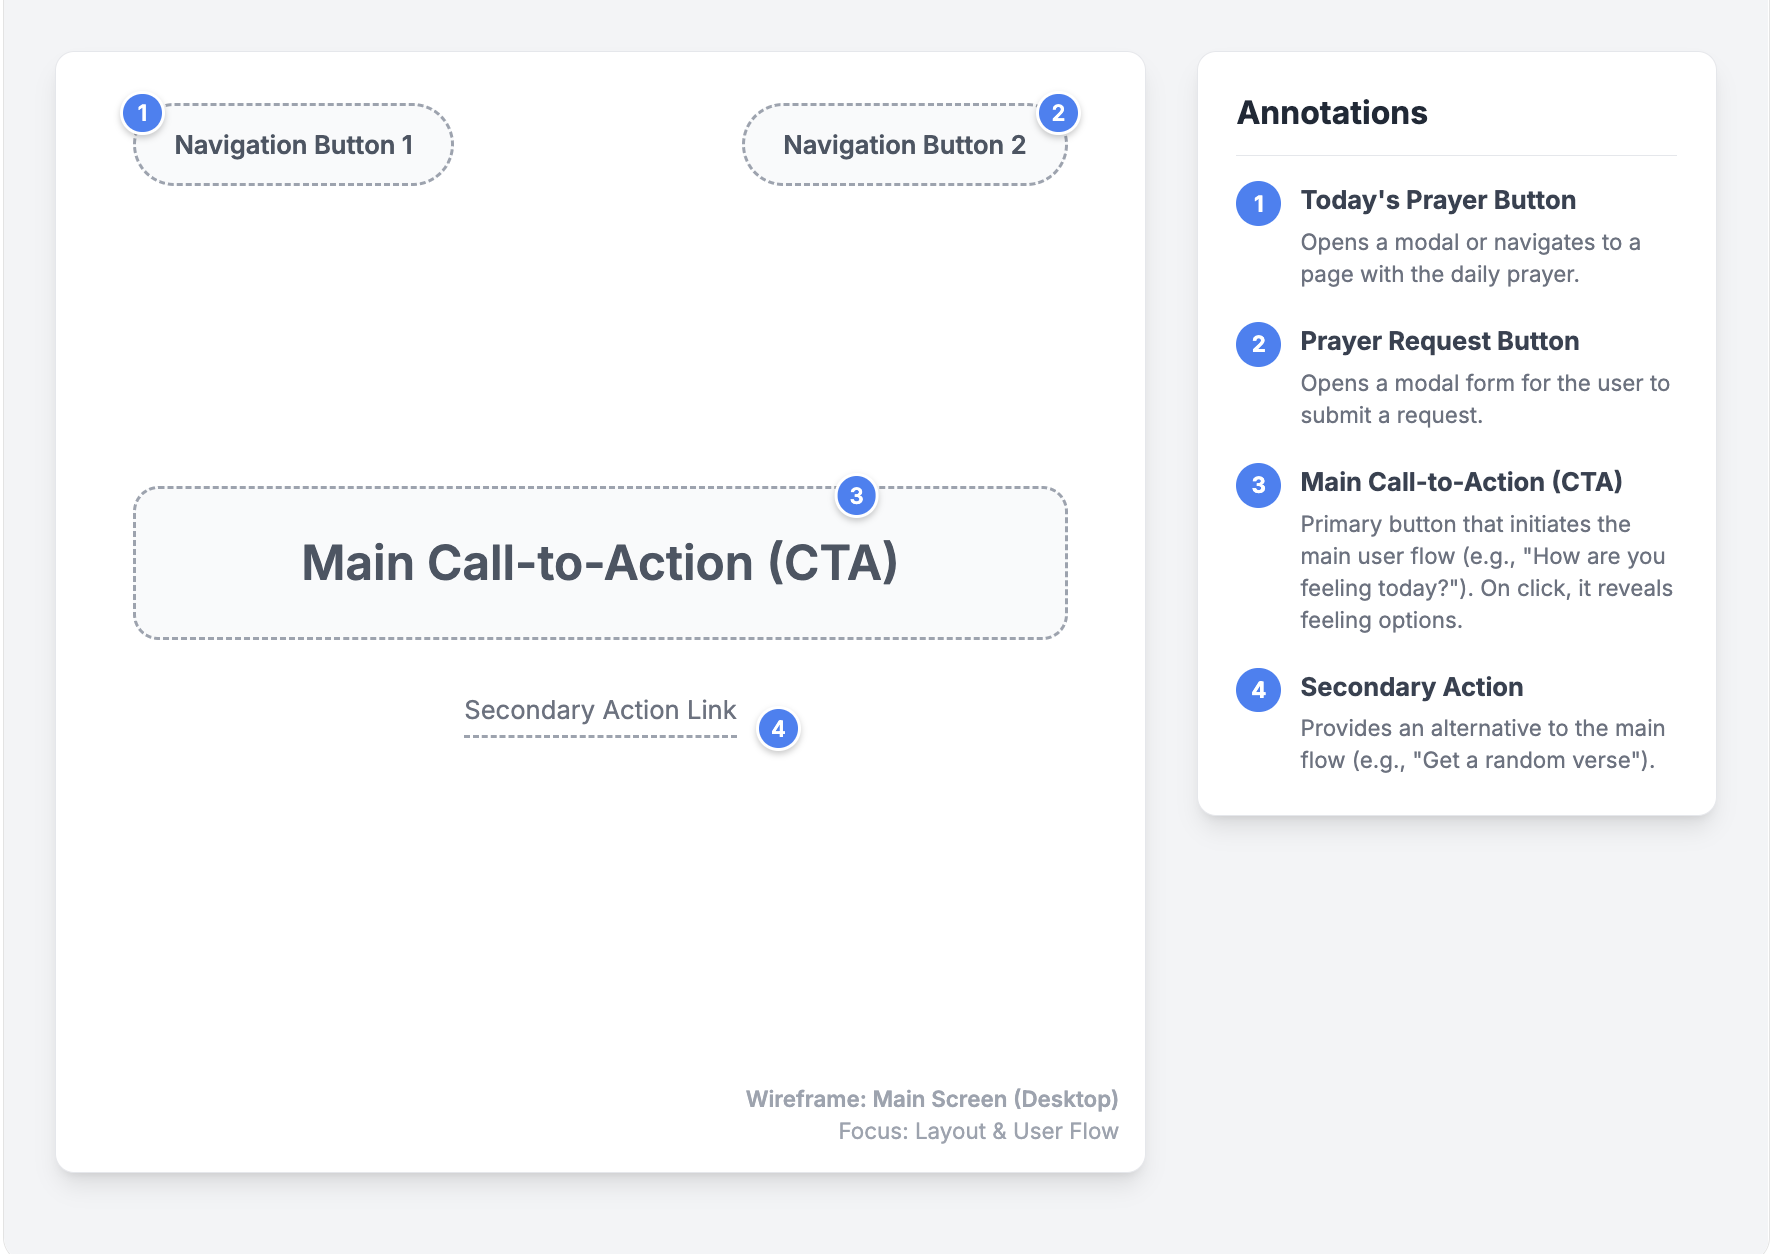
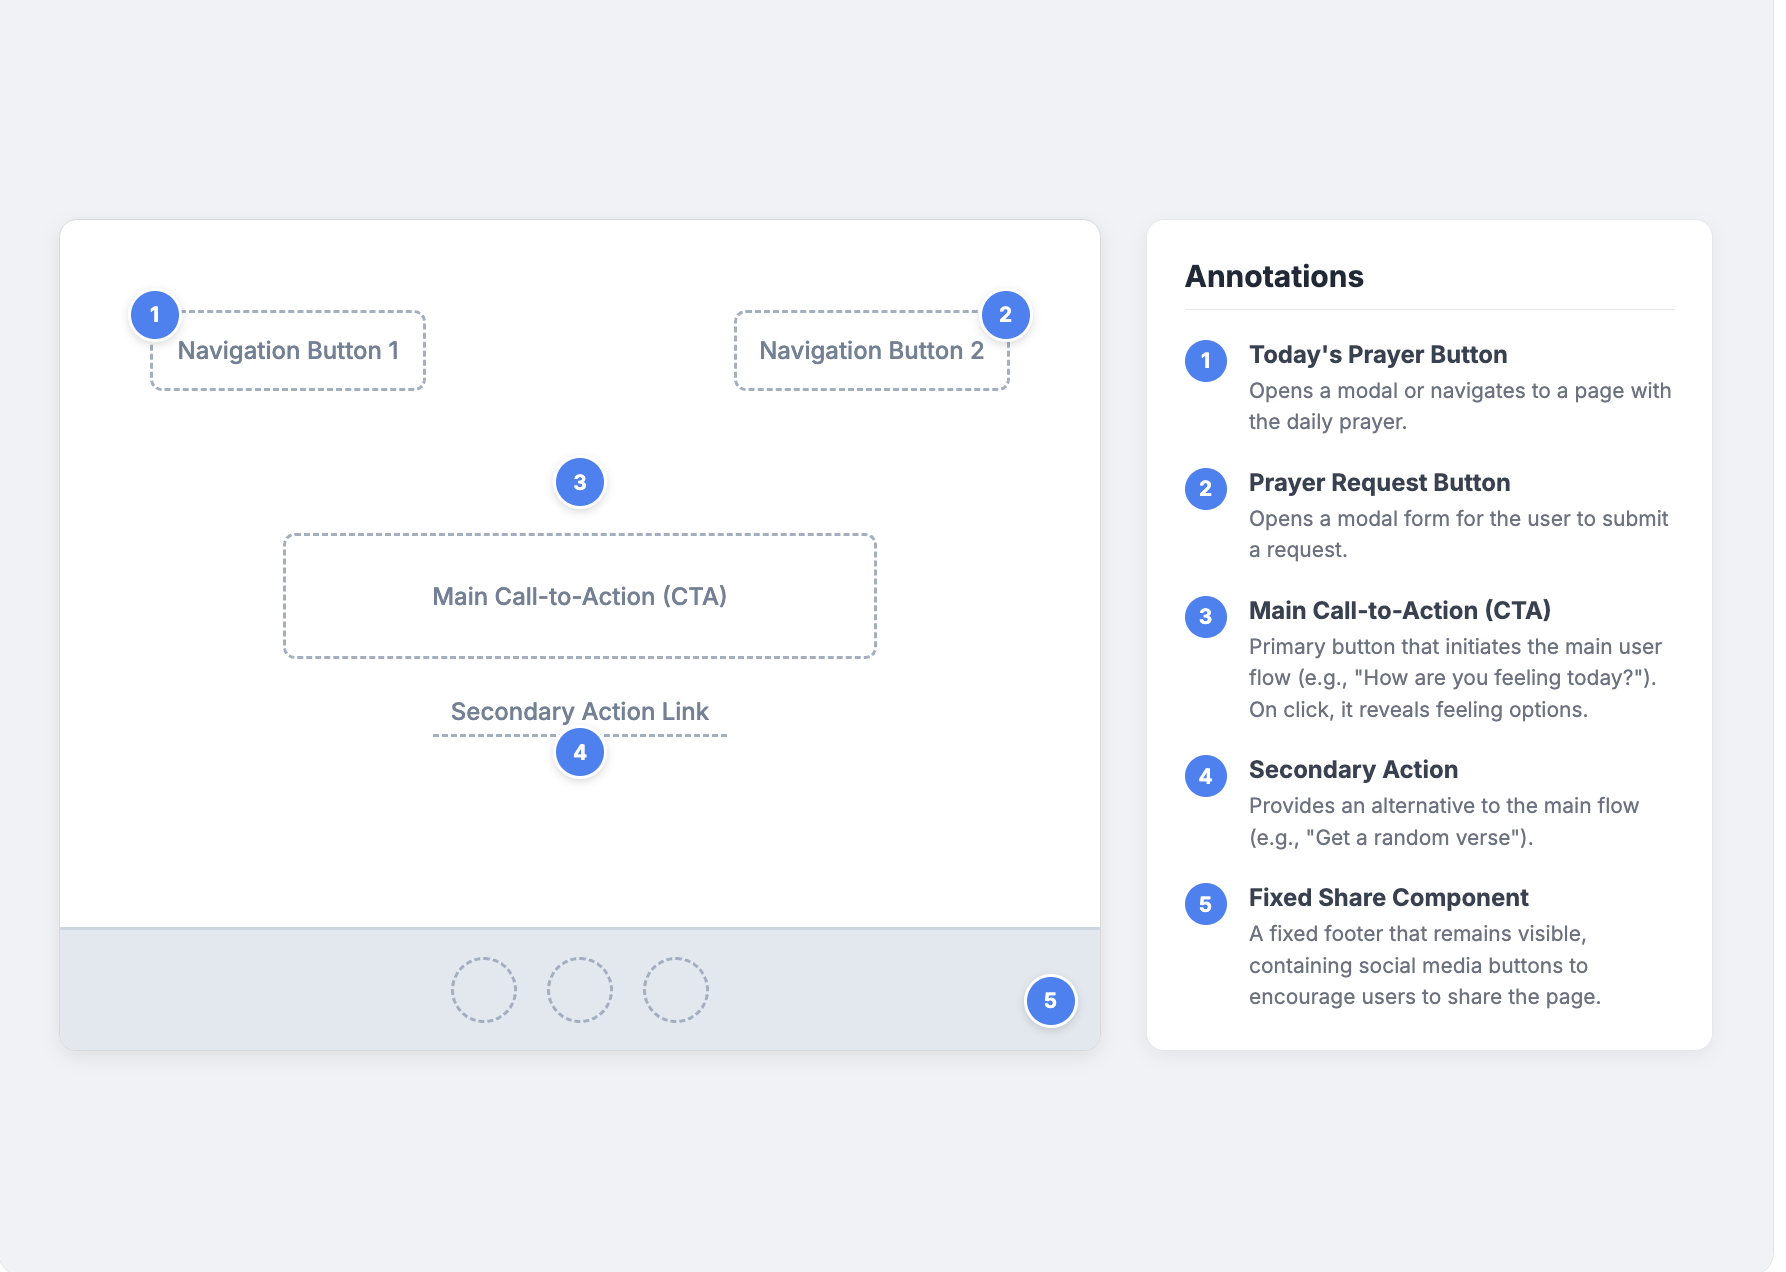
feat: Implement responsive share footer- Adds the HTML structure for a new fixed footer component. - Implements CSS styles for the share buttons (Facebook, X, WhatsApp). - Adds media queries to ensure the footer is only visible on mobile   and smaller screen sizes, being hidden on desktop for a clea

diff --git a/index.html b/index.html
@@ -2,23 +2,27 @@
 <html lang="en">
 <head>
     <meta charset="UTF-8">
-    <meta name="viewport" content="width=device-width, initial-scale=1.0, maximum-scale=1.0, user-scalable=no">
+    <meta name="viewport" content="width=device-width, initial-scale=1.0">
     <title>Peace in the Word</title>
     <!-- CSS -->
     <link rel="stylesheet" href="style.css">
     <link rel="stylesheet" href="https://cdnjs.cloudflare.com/ajax/libs/font-awesome/6.5.1/css/all.min.css">
 </head>
 <body>
-    <!-- HEADER -->
-    <header class="header"> 
+
+      <header class="mobile-header">
+        <button id="daily-prayer-btn" aria-label="Open daily prayer">Today's Prayer 🙏</button>
+        <button id="prayer-btn" aria-label="Open prayer request form">Prayer Request 🙏</button>
+  
         <!-- DAILY PRAYER BUTTON - DESKTOP ONLY -->
         <button onclick="DailyPrayerPopup()" id="daily-prayer-btn" aria-label="Open daily prayer">
             Today's Prayer 🕊
         </button>
         <!-- REQUEST A PRAYER BUTTON -->
-        <button onclick="Popup()" role="button" id="prayer-btn" aria-label="Open prayer request form">
+        <button onclick="Popup()" id="prayer-btn" aria-label="Open prayer request form">
             Prayer Request 🙏
         </button>
+        </header>
 
         <!-- DAILY PRAYER POPUP -->
         <div id="daily-prayer-popup">

diff --git a/style.css b/style.css
@@ -356,6 +356,10 @@ main, .main-container {
   color: white;
 }
 
+
+.mobile-header {
+  display: none;
+}
 /* =========================
   RESPONSIVE DESIGN
 ========================= */
@@ -468,6 +472,34 @@ main, .main-container {
       position: fixed;
       padding: 30px;
     }
+
+     .mobile-header {
+    display: flex; 
+    justify-content: space-between; 
+    align-items: center; 
+    position: fixed;
+    top: 0;
+    left: 0;
+    width: 100%;
+    height: 100px; 
+    padding: 0 15px;
+    background: rgba(173, 216, 230, 0.9);
+    box-shadow: 0 2px 10px rgba(0,0,0,0.1);
+    z-index: 500;
+     }
+    
+
+  #daily-prayer-btn, #prayer-btn {
+    width: 110px; /* 130px * 0.85 */
+    height: 65px; /* 70px * 0.85 */
+    font-size: 1em; /* 1.1em * 0.85 */
+    box-shadow: white 0px 0px 50;
+  }
+  
+#feeling-btn {
+    margin-top: 150px; 
+}  /* Space for mobile header */
+
 
     .share-buttons button {
       width: 45px;

diff --git a/README.md b/README.md
@@ -9,11 +9,16 @@ My goal is to offer a peaceful space where anyone, at any time, can find a word 
 ---
 
 ## Technologies Used
-- HTML5
-- CSS3
-- JavaScript
-- Git & GitHub
-- VS Code
+
+HTML5: For the core structure and content of the application.
+
+CSS3: For all styling, including the responsive layout, animations, and the dual-palette design strategy.
+
+JavaScript (ES6): For all interactivity, including the logic for displaying verses, managing pop-ups, and handling user events.
+
+Git & GitHub: For version control and hosting the deployed project via GitHub Pages.
+
+VS Code: As the primary code editor for development.
 
 ---
 
@@ -39,28 +44,27 @@ My goal is to offer a peaceful space where anyone, at any time, can find a word 
 
 ## UX Design
 
-### The Psychology of Colors in the Project
+#### The Psychology of Colors: An Ethereal Experience
 
-Our visual identity is built on a dual-palette strategy to create an experience that is both spiritually warm and functionally clear. We combine an atmospheric background with a clean, focused user interface.
+The visual identity of the project is designed to create an experience that is both spiritually uplifting and functionally clear. The strategy combines a celestial, calming atmosphere with a warm, human core at its center.
 
-![Color Palette](assets/images/documentation/screenshots/colorpalette/colorspalette.png)
+#### The Celestial Atmosphere (The Calming Blue)
 
-**1. The Atmospheric Palette (The Heart of the Site)**
+The entire user experience is enveloped in a soft, light blue. This is not just an accent color, but the primary atmospheric element of the site.
 
-The user is welcomed by a background image rich in soft, warm, and earthy tones—the gentle whites of a dove and the natural beiges of open hands. This visual foundation sets the emotional tone of the site:
+The Ethereal Frame: A gentle blue vignette on the edges of the screen and a solid blue footer create a soothing visual boundary. This "celestial frame" removes outside distractions and immerses the user in a space of peace and serenity.
 
-* **Warmth and Humanity:** The beige and organic tones create a welcoming, human, and comforting atmosphere.
-* **Spirituality and Peace:** The imagery of the dove and the cross evokes a sense of peace, hope, and the presence of the Holy Spirit.
+The Unifying Element: This same lightblue is used for all interactive elements (buttons, links, pop-ups), creating a seamless and harmonious connection between the atmosphere and the user interface.
 
-**2. The User Interface Palette (The Clarity of the Message)** 
+#### The Human Core (The Heart of the Site)
 
-Floating above this warm atmosphere is a clean, minimalist UI palette designed for focus and readability.
+Resting at the heart of this blue atmosphere is the background image, rich in soft, warm, and earthy tones.
 
-* **Dark Tones (`#222` and `#333`):** Represent the **solidity and timelessness** of the message. They provide maximum contrast for comfortable, distraction-free reading, conveying authority and trust.
-* **Light Blue (`lightblue`):** Our touch of **serenity and clarity**. This cool color complements the warm background, evoking a sense of calm and confidence. It is used strategically to guide the user's actions peacefully.
-* **Background (`#f8feff`):** The foundation for all content is a white with a subtle bluish tint, creating a **clean and open space**. It acts as a canvas that elevates the Word, symbolizing the mental clarity needed for reflection.
+Warmth and Humanity: The natural beiges of the open hands and the gentle whites of the dove provide a focal point of warmth, comfort, and human connection.
 
-This combination ensures that the user feels welcomed and at peace (from the background) while being able to interact with the message clearly and without effort (from the UI).
+Clarity and Readability: Floating above this, the dark tones (#222 and #333) are used for all text, ensuring the message is always solid, timeless, and easy to read.
+
+This combination ensures that the user feels enveloped in a peaceful, heavenly calm (from the blue atmosphere) while connecting with a message of hope and humanity at its core.
 
 ### Typography: A Balance of Personality and Clarity
 
@@ -165,7 +169,7 @@ Key adaptations for the mobile layout include:
 
 3. Vertical Hierarchy: All elements are arranged in a clear vertical hierarchy, guiding the user's eye downwards from the navigation options to the primary and secondary actions, ensuring a seamless experience.
 
-4 .Persistent Share Footer: The fixed footer with the share buttons for Facebook, X (Twitter), and WhatsApp remains visible at the bottom of the screen. This ensures that the option to share the site is always available, even as the user navigates through the main flow.
+4.    Persistent Share Footer: The fixed footer with the share buttons for Facebook, X (Twitter), and WhatsApp remains visible at the bottom of the screen. This ensures that the option to share the site is always available, even as the user navigates through the main flow.
 
 This approach ensures that the application is just as powerful and easy to use on a mobile device as it is on a desktop.
 
@@ -249,18 +253,43 @@ To help users build a consistent spiritual habit, a subscription feature (via em
 
 ## Testing
 
-### Manual Testing - IT HAS TO BE DONE
+### Manual Testing 
 - All links and buttons were tested to ensure correct functionality.  
 - Prayer request form tested with both valid and invalid inputs.  
 - Verses and prayers display correctly across all devices.  
 - Popups tested to open and close without issues.  
 - Layout tested on Chrome, Safari, and mobile devices.  
 
-### Validator Testing - IT HAS TO BE DONE
-- **HTML:** Passed through [W3C Validator](https://validator.w3.org/) with no errors.  
-- **CSS:** Passed through [Jigsaw CSS Validator](https://jigsaw.w3.org/css-validator/) with no errors.  
-- **Accessibility:** Achieved high scores on Lighthouse audits.  
-- **JS Test
+
+## Validator Testing
+To ensure the highest quality, the project's code and performance were rigorously tested using official industry-standard tools.
+
+**HTML Validation:** The HTML code was passed through the official W3C Validator.
+![Screenshot of  HTML Validador](assets/images/documentation/html-validation/htmlvalidation.png)
+
+**Result**: Passed with no errors or significant warnings.
+
+**CSS Validation:** The CSS code was passed through the official Jigsaw CSS Validator.
+![Screenshot of CSS Validador](assets/images/documentation/css-validation/cssvalidator.png)
+
+**Result:** Passed with no errors found.
+
+**JavaScript Linting:** The JavaScript code was analyzed using JSHint to check for syntax errors and potential issues.
+
+**Result:** Passed with no significant errors or warnings detected.
+
+
+| Feature | Action | Expected Result |
+| --- | --- | --- |
+| Main CTA | Click "How are you feeling today?" button. | The feelings selection grid appears, and the main button becomes inactive. |
+| Feelings Buttons | Click on any feeling button (e.g., "Peaceful"). | The feelings grid disappears, and a relevant Bible verse is displayed and centered on the screen. |
+| Random Verse Link | Click "Or get a random verse for your day". | A random verse from any category is displayed and centered on the screen. |
+| Daily Prayer | Click "Today's Prayer" button. | A modal window appears with the daily prayer. The "Close" and "Mark as Read" buttons function correctly. |
+| Prayer Request | Click "Prayer Request" button. | A modal window with a form appears. The form validates input and shows a confirmation upon sending. |
+| Social Sharing | Click on Facebook, X, or WhatsApp icons. | A new tab opens with the corresponding social media sharing dialogue pre-populated with the site's link. |
+| Responsiveness | Resize the browser window from desktop to mobile size. | The layout adjusts smoothly, with elements stacking correctly and the feelings grid changing from flex to a 2-column grid. |
+
+
 
 ---
 
